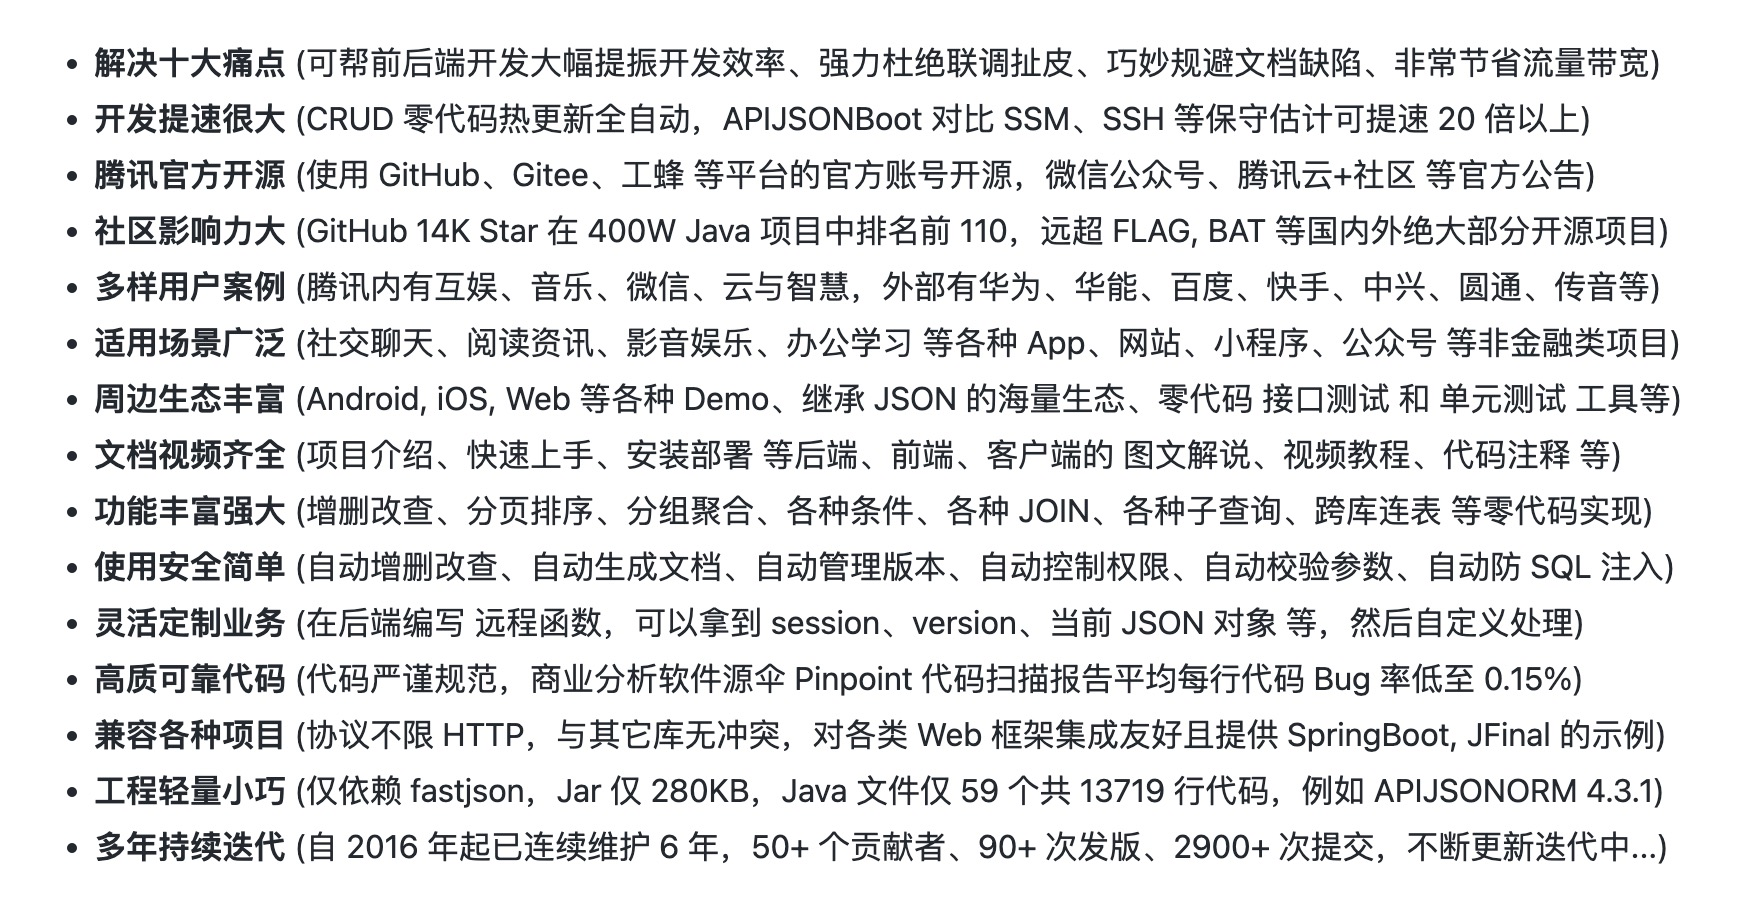
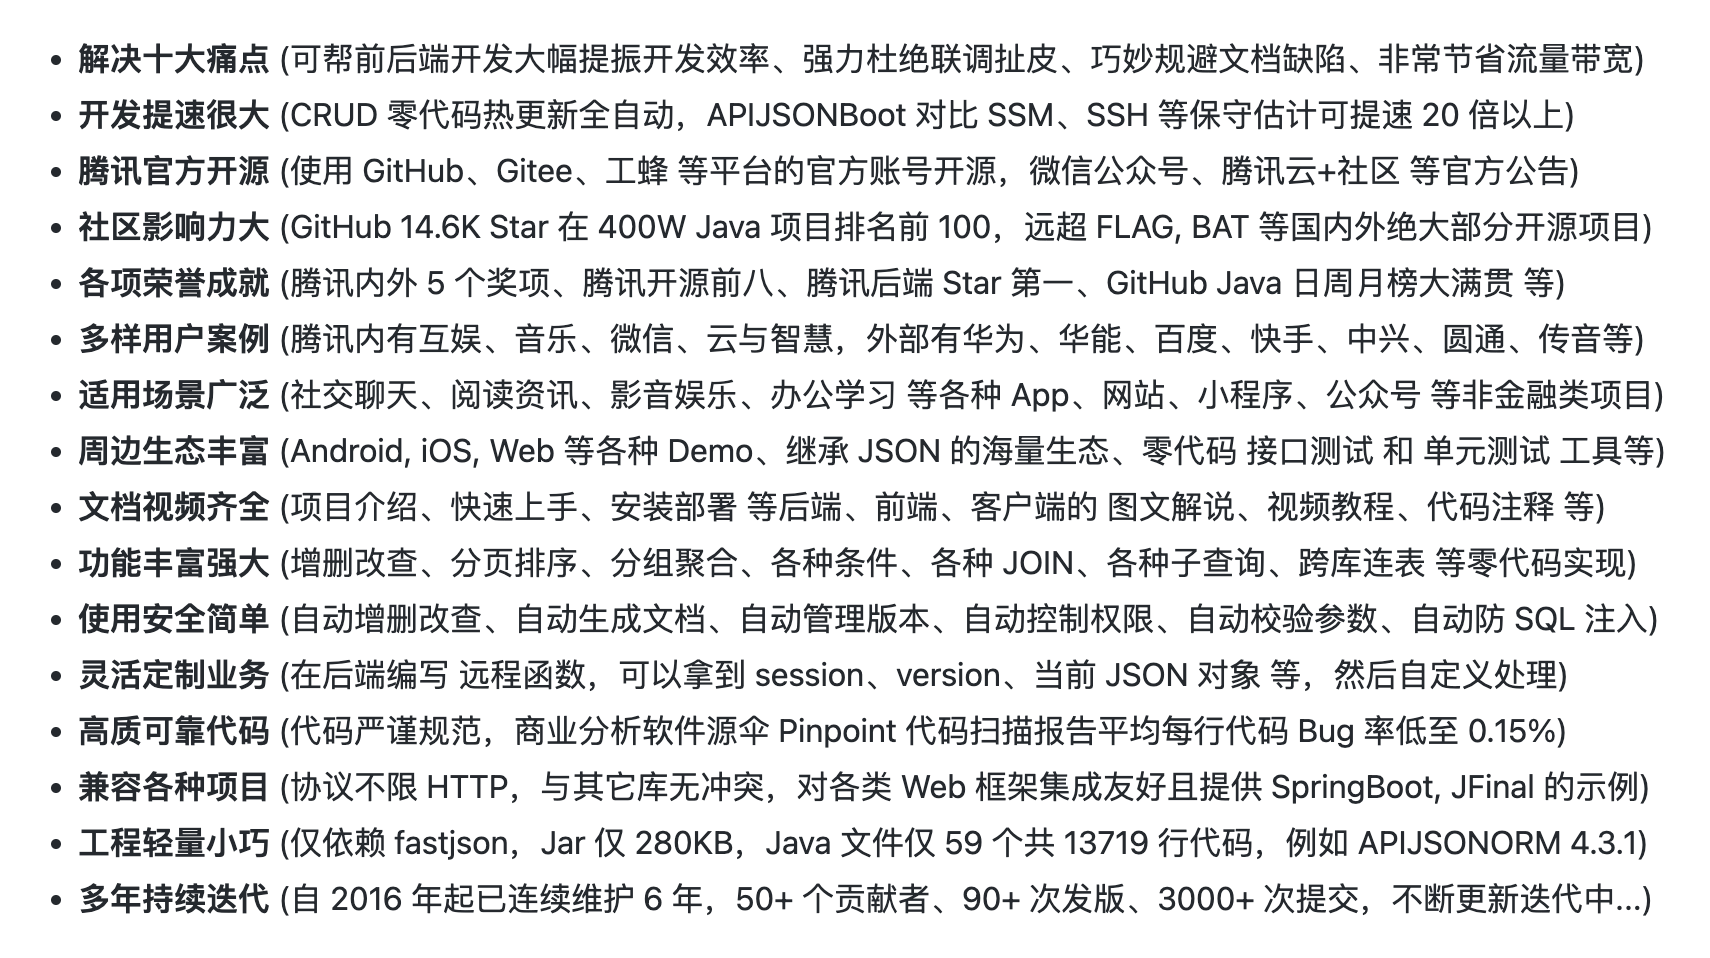
新增包括 阿里云工程师 的 4 个贡献者和 5 个生态项目；更新选择 APIJSON 的理由；解决部分生态作者图片加载问题；

diff --git a/public/index.html b/public/index.html
@@ -343,20 +343,20 @@
   <div style="font-size: larger; align-self: center; text-align: left; width: 50%; white-space: nowrap;">
   <br /> • <b >解决十大痛点</b> (APIJSON 大幅提振开发效率、强力杜绝联调扯皮、巧妙规避文档缺陷、非常节省流量带宽 等)
   <br /> • <b >开发提速巨大</b> (CRUD 零代码热更新自动化，APIJSONBoot 对比 SSM、SSH 等保守估计可提速 20 倍以上)
-  <br /> • <b >腾讯官方开源</b> (使用 GitHub、Gitee、工蜂 等平台的官方账号开源，微信公众号、腾讯云+社区 等官方公告)
-  <br /> • <b >社区影响力大</b> (GitHub 11.3K Star 在 400W Java 项目中排名前 150，远超 FLAG, BAT 等国内外绝大部分开源项目)
+  <br /> • <b >腾讯官方开源</b> (使用 GitHub、Gitee、工蜂 等平台的官方账号开源，微信公众号、腾讯云+社区 等官方公告)
+  <br /> • <b >社区影响力大</b> (GitHub 14.6K Star 在 400W Java 项目中排名前 150，远超 FLAG, BAT 等国内外绝大部分开源项目)
   <br /> • <b >各项荣誉成就</b> (腾讯开源五个第一、腾讯首个 GVP 获奖项目、腾讯后端项目 Star 第一、GitHub Java 周榜第一 等)
   <br /> • <b >多样用户案例</b> (腾讯内部用户包含 互娱、音乐、云与智慧，外部用户包含 500 强上市公司、数千亿资本国企 等)
-  <br /> • <b >适用场景广泛</b> (社交聊天、阅读资讯、影音视频、办公学习 等各种 App、网站、公众号、小程序 等非金融类项目)
+  <br /> • <b >适用场景广泛</b> (社交聊天、阅读资讯、影音视频、办公学习 等各种 App、网站、公众号、小程序 等非金融类项目)
   <br /> • <b >周边生态丰富</b> (Android, iOS, Web 等各种 Demo、继承 JSON 的海量生态、零代码 接口测试 和 单元测试 工具等)
-  <br /> • <b >文档视频齐全</b> (项目介绍、快速上手、安装部署 等后端、前端、客户端的 图文解说、视频教程、代码注释 等)
-  <br /> • <b >功能丰富强大</b> (增删改查、分页排序、分组聚合、各种 JOIN、各种子查询、跨库跨表、性能分析 等零代码实现)
+  <br /> • <b >文档视频齐全</b> (项目介绍、快速上手、安装部署 等后端、前端、客户端的 图文解说、视频教程、代码注释 等)
+  <br /> • <b >功能丰富强大</b> (增删改查、分页排序、分组聚合、各种 JOIN、各种子查询、跨库跨表、性能分析 等零代码实现)
   <br /> • <b >使用安全简单</b> (自动增删改查、自动生成文档、自动管理版本、自动控制权限、自动校验参数、自动防 SQL 注入等)
-  <br /> • <b >灵活定制业务</b> (在后端编写 远程函数，可以拿到 session、version、当前 JSON 对象 等，然后自定义处理)
+  <br /> • <b >灵活定制业务</b> (在后端编写 远程函数，可以拿到 session、version、当前 JSON 对象 等，然后自定义处理)
   <br /> • <b >高质可靠代码</b> (代码工整规范、商业分析软件源伞 Pinpoint 代码扫描报告平均每行代码 bug 率低至 0.15%)
   <br /> • <b >兼容各种项目</b> (对各类 Web 框架集成友好且提供 SpringBoot, JFinal 的 Demo，协议不限 HTTP，与其它库无冲突)
   <br /> • <b >工程轻量小巧</b> (仅依赖 fastjson，Jar 仅 280KB，Java 文件仅 59 个共 13719 行代码，例如 APIJSONORM 4.3.1)
-  <br /> • <b >多年持续迭代</b> (自 2016 年开源至今已连续 4 年 2000+ Commits、70+ Releases，不断更新迭代中...)
+  <br /> • <b >多年持续迭代</b> (自 2016 年开源至今已连续 6 年 3000+ Commits、90+ Releases，不断更新迭代中...)
   </div>
 </div>
 
@@ -520,7 +520,7 @@
     <p id="ecology" style="padding-top: 35px; margin:0px; background: white"/>
     <div class="open-collective-sponsors" style="margin-top: 30px;">
       <h3 >社区及生态的贡献者</h3>
-      <h4 style="margin-bottom: 10px;margin-top: 5px">主项目的贡献者(6 腾讯 1 微软 1 知乎架构师 1 字节跳动 1 网易 1 Zoom 1 圆通 1 智联 等)</h4>
+      <h4 style="margin-bottom: 10px;margin-top: 5px">主项目的贡献者(6 腾讯 1 知乎架构师 1 微软 1 阿里云 1 字节跳动 1 网易 1 Zoom 1 圆通 1 智联 等)</h4>
       <a href="https://github.com/TommyLemon" target="_blank" style="width: 36px;padding: 0px;margin: 0px">
         <img src="https://avatars.githubusercontent.com/u/5738175?v=4" style="width: auto;height: 36px;border-radius: 36px;">
       </a>
@@ -686,6 +686,18 @@
       <a href="https://github.com/Tencent/APIJSON/pull/481" target="_blank" style="width: 36px;padding: 0px;margin: 0px">
         <img src="https://avatars.githubusercontent.com/u/12228225?s=60&v=4" style="width: auto;height: 36px;border-radius: 36px;">
       </a>
+      <a href="https://github.com/Tencent/APIJSON/pull/483" target="_blank" style="width: 36px;padding: 0px;margin: 0px">
+        <img src="https://avatars.githubusercontent.com/u/46614808?s=60&v=4" style="width: auto;height: 36px;border-radius: 36px;">
+      </a>
+      <a href="https://github.com/Tencent/APIJSON/pull/489" target="_blank" style="width: 36px;padding: 0px;margin: 0px">
+        <img src="https://avatars.githubusercontent.com/u/3324416?s=60&v=4" style="width: auto;height: 36px;border-radius: 36px;">
+      </a>
+      <a href="https://github.com/Tencent/APIJSON/pull/498" target="_blank" style="width: 36px;padding: 0px;margin: 0px">
+        <img src="https://avatars.githubusercontent.com/u/41458196?s=60&v=4" style="width: auto;height: 36px;border-radius: 36px;">
+      </a>
+      <a href="https://github.com/Tencent/APIJSON/pull/505" target="_blank" style="width: 36px;padding: 0px;margin: 0px">
+        <img src="https://avatars.githubusercontent.com/u/30490359?s=60&v=4" style="width: auto;height: 36px;border-radius: 36px;">
+      </a>
 
       <h4 style="margin-bottom: 10px">其它项目的作者(2 腾讯 1 BAT 技术专家 1 微软 2 字节跳动 1 神州数码&Apache dubbo2js 作者 等)</h4>
       <a href="https://github.com/APIJSON/apijson-orm" target="_blank" style="width: 36px;padding: 0px;margin: 0px">
@@ -748,6 +760,9 @@
       <a href="https://github.com/jerrylususu/apijson_todo_demo" target="_blank" style="width: 36px;padding: 0px;margin: 0px">
         <img src="https://avatars.githubusercontent.com/u/17522475?v=4" style="width: auto;height: 36px;border-radius: 36px;">
       </a>
+      <a href="https://github.com/glennliao/apijson-go-demo" target="_blank" style="width: 36px;padding: 0px;margin: 0px">
+        <img src="https://avatars.githubusercontent.com/u/14543369?v=4" style="width: auto;height: 36px;border-radius: 36px;">
+      </a>
       <a href="https://github.com/vcoolwind/apijson-practice" target="_blank" style="width: 36px;padding: 0px;margin: 0px">
         <img src="https://avatars.githubusercontent.com/u/22070287?v=4" style="width: auto;height: 36px;border-radius: 36px;">
       </a>
@@ -757,14 +772,14 @@
       <a href="https://github.com/rainboy-learn/apijson-learn" target="_blank" style="width: 36px;padding: 0px;margin: 0px">
         <img src="https://avatars.githubusercontent.com/u/43025876?v=4" style="width: auto;height: 36px;border-radius: 36px;">
       </a>
-      <a href="https://gitee.com/greyzeng/apijson-sample" target="_blank" style="width: 36px;padding: 0px;margin: 0px">
-        <img src="https://portrait.gitee.com/uploads/avatars/user/367/1102309_greyzeng_1578940307.png!avatar200" style="width: auto;height: 36px;border-radius: 36px;">
+      <a href="https://github.com/GreyZeng/apijson-sample" target="_blank" style="width: 36px;padding: 0px;margin: 0px">
+        <img src="https://avatars.githubusercontent.com/u/12782103?v=4" style="width: auto;height: 36px;border-radius: 36px;">
       </a>
       <a href="https://github.com/JYbill/APIJSON-test" target="_blank" style="width: 36px;padding: 0px;margin: 0px">
         <img src="https://avatars.githubusercontent.com/u/57380135?v=4" style="width: auto;height: 36px;border-radius: 36px;">
       </a>
       <a href="https://gitee.com/xlongwei/light4j" target="_blank" style="width: 36px;padding: 0px;margin: 0px">
-        <img src="https://portrait.gitee.com/uploads/avatars/user/402/1207995_xlongwei_1578946206.png!avatar200" style="width: auto;height: 36px;border-radius: 36px;">
+        <img src="https://portrait.gitee.com/uploads/avatars/user/402/1207995_xlongwei_1578946206.png" style="width: auto;height: 36px;border-radius: 36px;">
       </a>
       <a href="https://gitee.com/drone/apijson-examples" target="_blank" style="width: 36px;padding: 0px;margin: 0px">
[1 lines of base64/hex data omitted]
@@ -776,16 +791,16 @@
         <img src="https://avatars.githubusercontent.com/u/53035692?v=4" style="width: auto;height: 36px;border-radius: 36px;">
       </a>
       <a href="https://gitee.com/zhiyuexin/ApiJsonByJFinal" target="_blank" style="width: 36px;padding: 0px;margin: 0px">
-        <img src="https://avatar.gitee.com/uploads/90/490_zhiyuexin.jpg!avatar100?1368664499" style="width: auto;height: 36px;border-radius: 36px;">
+        <img src="https://avatar.gitee.com/uploads/90/490_zhiyuexin.jpg" style="width: auto;height: 36px;border-radius: 36px;">
       </a>
       <a href="https://github.com/Airforce-1/SpringServer1.2-APIJSON" target="_blank" style="width: 36px;padding: 0px;margin: 0px">
         <img src="https://avatars3.githubusercontent.com/u/6212428?v=4" style="width: auto;height: 36px;border-radius: 36px;">
       </a>
       <a href="https://gitee.com/JinShuProject/JinShuApiJson" target="_blank" style="width: 36px;padding: 0px;margin: 0px">
-        <img src="https://portrait.gitee.com/uploads/avatars/user/232/698672_maxiaoji_1578931055.jpg!avatar200" style="width: auto;height: 36px;border-radius: 36px;">
+        <img src="https://portrait.gitee.com/uploads/avatars/user/232/698672_maxiaoji_1578931055.jpg!avatar100" style="width: auto;height: 36px;border-radius: 36px;">
       </a>
       <a href="https://gitee.com/csgitter/APIJSONBoot" target="_blank" style="width: 36px;padding: 0px;margin: 0px">
-        <img src="https://portrait.gitee.com/uploads/avatars/user/211/634196_csgitter_1578929834.png!avatar200" style="width: auto;height: 36px;border-radius: 36px;">
+        <img src="https://portrait.gitee.com/uploads/avatars/user/211/634196_csgitter_1578929834.png" style="width: auto;height: 36px;border-radius: 36px;">
       </a>
       <a href="https://github.com/keepfoo/apijson-java" target="_blank" style="width: 36px;padding: 0px;margin: 0px">
         <img src="https://avatars.githubusercontent.com/u/9101755?v=4" style="width: auto;height: 36px;border-radius: 36px;">
@@ -808,6 +823,9 @@
       <a href="https://github.com/creasy2010/apijson-docker" target="_blank" style="width: 36px;padding: 0px;margin: 0px">
         <img src="https://avatars.githubusercontent.com/u/1592277?v=4" style="width: auto;height: 36px;border-radius: 36px;">
       </a>
+      <a href="https://github.com/tuhe32/binfast-apijson" target="_blank" style="width: 36px;padding: 0px;margin: 0px">
+        <img src="https://avatars.githubusercontent.com/u/18496264?s=120&v=4" style="width: auto;height: 36px;border-radius: 36px;">
+      </a>
       <a href="https://github.com/TommyLemon/APIJSON-Android-RxJava" target="_blank" style="width: 36px;padding: 0px;margin: 0px">
         <img src="https://avatars1.githubusercontent.com/u/5738175?u=5b2f372f0c03fae8f249d2d754e38971c2e17b92&v=4" style="width: auto;height: 36px;border-radius: 36px;">
       </a>
@@ -819,6 +837,15 @@
       </a>
       <a href="https://github.com/TommyLemon/SQLAuto" target="_blank" style="width: 36px;padding: 0px;margin: 0px">
         <img src="https://avatars1.githubusercontent.com/u/5738175?u=5b2f372f0c03fae8f249d2d754e38971c2e17b92&v=4" style="width: auto;height: 36px;border-radius: 36px;">
+      </a>
+      <a href="https://gitee.com/qq_connect-1440837150/back-manager-forapijson" target="_blank" style="width: 36px;padding: 0px;margin: 0px">
[1 lines of base64/hex data omitted]
+      </a>
+      <a href="https://gitee.com/qq_connect-1440837150/back-manager-forapijson-front" target="_blank" style="width: 36px;padding: 0px;margin: 0px">
[1 lines of base64/hex data omitted]
+      </a>
+      <a href="https://github.com/glennliao/apijson-go-ui" target="_blank" style="width: 36px;padding: 0px;margin: 0px">
+        <img src="https://avatars.githubusercontent.com/u/14543369?v=4" style="width: auto;height: 36px;border-radius: 36px;">
       </a>
       <a href="https://github.com/vincentCheng/apijson-doc" target="_blank" style="width: 36px;padding: 0px;margin: 0px">
         <img src="https://avatars3.githubusercontent.com/u/6327228?v=4" style="width: auto;height: 36px;border-radius: 36px;">
